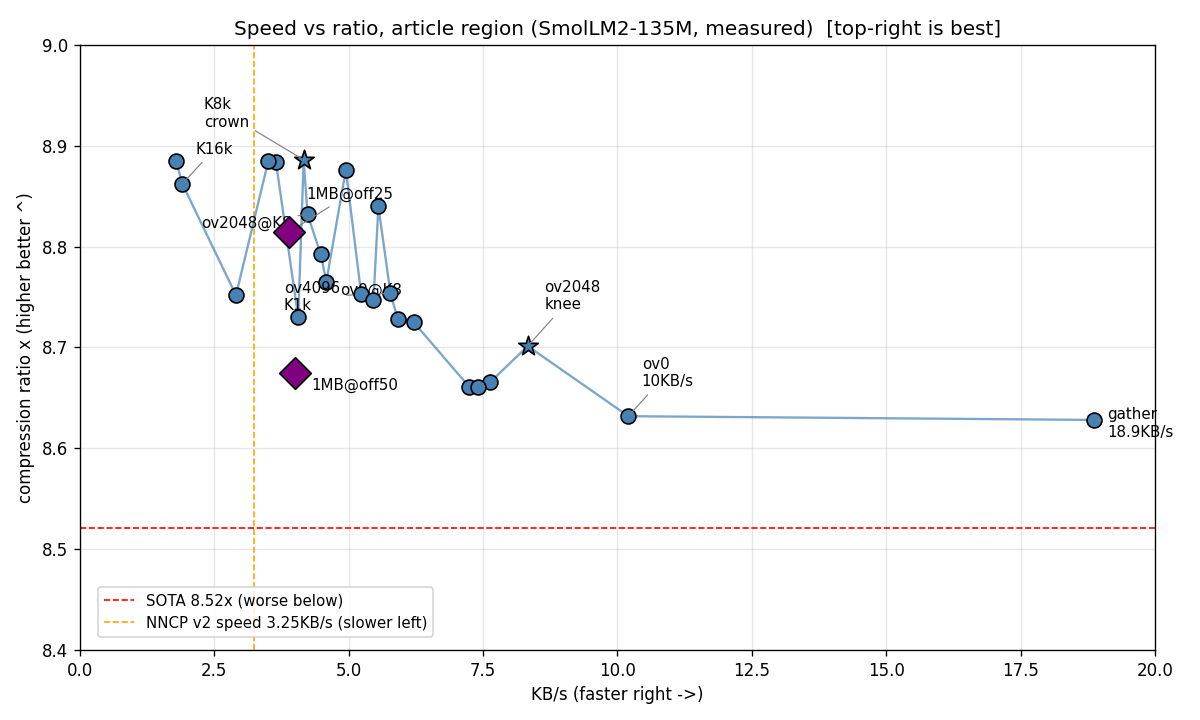
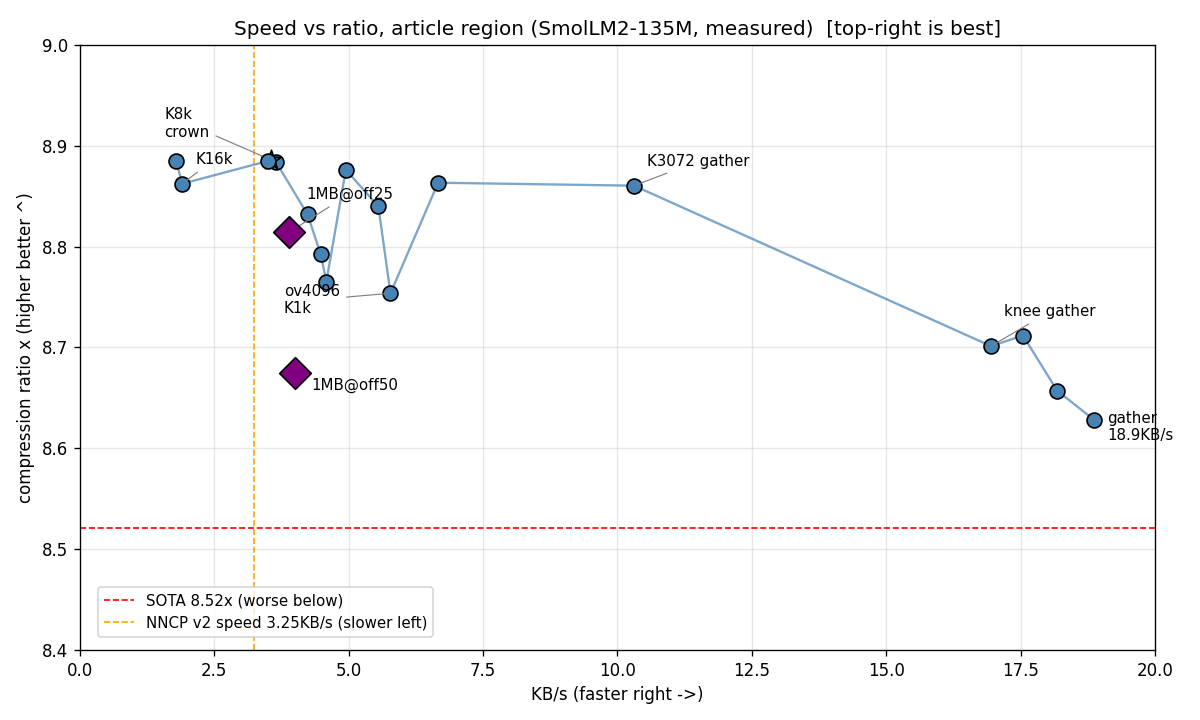
Fresh Pareto round: reports, plots, ledger, probe data

diff --git a/tools/pareto_plot.py b/tools/pareto_plot.py
@@ -10,32 +10,28 @@ import matplotlib
 matplotlib.use("Agg")
 import matplotlib.pyplot as plt
 
-# (label, KB/s, bpb). All 100KB slices verified (220-ish lossless each).
+# (label, KB/s, bpb). Fresh era only: current-code numbers (gather default
+# on unless noted). Pre-flash timings (BC7/ov6144/TRI0/ov5120/ov3072/ov2560/
+# ov1536/ov512/ov1024/ov0-classic) REMOVED 2026-09-14 (stale scheduler era).
 # off50 = representative article region; off75 = hard region.
 OFF50 = [
     ("gather\n18.9KB/s", 100 / 5.3, 0.9272),
+    ("ov0K2 gather", 100 / 5.7, 0.9183),
+    ("knee gather", 100 / 5.9, 0.9194),
+    ("ov1024 gather", 100 / 5.5, 0.9241),
+    ("K3072 gather", 100 / 9.7, 0.9029),
+    ("ov3072K8 gather", 100 / 15.0, 0.9026),
+    ("K2k", 100 / 18.0, 0.9050),
+    ("K4k", 100 / 20.2, 0.9013),
+    ("ov0@K8", 100 / 21.8, 0.9127),
+    ("ov1024@K8", 100 / 22.3, 0.9099),
+    ("ov2048@K8", 100 / 23.6, 0.9058),
+    ("K8k gather", 100 / 27.4, 0.9005),
+    ("K8k\ncrown", 100 / 28.1, 0.9003),
+    ("K6k", 100 / 28.5, 0.9004),
     ("K16k", 100 / 52.4, 0.9027),
     ("ov6144@K8", 100 / 55.8, 0.9004),
-    ("K8k\ncrown", 100 / 24.0, 0.9003),
-    ("K8k gather", 100 / 27.4, 0.9005),
-    ("K6k", 100 / 28.5, 0.9004),
-    ("ov2048@K8", 100 / 23.6, 0.9058),
-    ("ov1024@K8", 100 / 22.3, 0.9099),
-    ("ov0@K8", 100 / 21.8, 0.9127),
-    ("K4k", 100 / 20.2, 0.9013),
-    ("K2k", 100 / 18.0, 0.9050),
     ("ov4096\nK1k", 100 / 17.3, 0.9139),
-    ("BC7", 100 / 19.1, 0.9140),
-    ("ov6144", 100 / 34.4, 0.9141),
-    ("TRI0", 100 / 18.3, 0.9146),
-    ("ov5120", 100 / 24.6, 0.9164),
-    ("ov3072", 100 / 16.9, 0.9166),
-    ("ov2560", 100 / 16.1, 0.9169),
-    ("ov2048\nknee", 100 / 12.0, 0.9194),
-    ("ov1536", 100 / 13.8, 0.9237),
-    ("ov512", 100 / 13.1, 0.9232),
-    ("ov1024", 100 / 13.5, 0.9237),
-    ("ov0\n10KB/s", 100 / 9.8, 0.9268),
 ]
 OFF75 = [
     ("ov4096", 100 / 18.6, 0.9662),
@@ -103,13 +99,12 @@ def _diamonds(ax):
 # ---- plot 1: off50 frontier ----
 fig, ax = _base("Speed vs ratio, article region (SmolLM2-135M, measured)",
                 8.4, 9.0)
-_dots(ax, OFF50, "steelblue", show=("K8k\ncrown", "K16k", "ov0@K8", "ov2048@K8",
-                                    "ov4096\nK1k", "ov2048\nknee", "ov0\n10KB/s",
+_dots(ax, OFF50, "steelblue", show=("K8k\ncrown", "K16k", "knee gather",
+                                    "ov4096\nK1k", "K3072 gather",
                                     "gather\n18.9KB/s"),
-      offsets={"K8k\ncrown": (-60, 20), "K16k": (8, 18), "ov0@K8": (8, -8),
-               "ov2048@K8": (-64, -8), "ov4096\nK1k": (-64, -10),
-               "ov2048\nknee": (10, 22), "ov0\n10KB/s": (8, 18),
-               "gather\n18.9KB/s": (8, -10)})
+      offsets={"K8k\ncrown": (-64, 14), "K16k": (8, 12),
+               "knee gather": (8, 18), "ov4096\nK1k": (-64, -12),
+               "K3072 gather": (8, 12), "gather\n18.9KB/s": (8, -12)})
 _diamonds(ax)
 ax.set_xlim(0, 20)
 fig.tight_layout()

diff --git a/tools/scale_plot.py b/tools/scale_plot.py
@@ -1,7 +1,8 @@
-"""Size-vs-time (+bpb) scaling chart: 100KB / 1MB / 10MB ladders.
+"""Size-vs-throughput (+ratio) scaling chart: 100KB / 1MB / 10MB ladders.
 
+Top-right is best on BOTH panels (throughput up, ratio up).
 All points measured (220/220). See data/sota_loop.json.
-Saves scale_time_size.png next to this script (also repo root copy).
+Saves scale_time_size.png (repo root, referenced by READMEs).
 """
 import matplotlib
 
@@ -24,40 +25,41 @@ BPB = {
     "crown classic\nov4096/K8192": [0.9003, 0.9078, None],
     "crown gather\nov4096/K8192": [0.9005, None, None],
 }
-SOTA = 0.9389
+SOTA = 8.0 / 0.9389  # 8.52x
+
+
+def _kbs(size_kb, secs):
+    return [s / t for s, t in zip(size_kb, secs)]
+
 
 fig, (ax1, ax2) = plt.subplots(1, 2, figsize=(13, 5))
 
 for name, ts in TIME.items():
     xs = [s for s, t in zip(SIZES_KB, ts) if t is not None]
-    ys = [t for t in ts if t is not None]
+    ys = _kbs(xs, [t for t in ts if t is not None])
     ax1.loglog(xs, ys, "o-", label=name)
 ax1.set_xlabel("file size (KB, log)")
-ax1.set_ylabel("seconds / file (log)")
-ax1.set_title("Throughput ladder (busy box, all 220/220)")
+ax1.set_ylabel("throughput (KB/s, higher better ^)")
+ax1.set_title("Throughput ladder [top-right is best]")
 ax1.set_xticks(SIZES_KB)
 ax1.set_xticklabels(SIZES_LBL)
 ax1.grid(True, which="both", alpha=0.3)
 ax1.legend(fontsize=8)
-# linear-scaling reference: 10x size -> 10x time through first point
-x0, y0 = SIZES_KB[0], TIME["speed gather\nov0/K1024"][0]
-ax1.loglog(SIZES_KB, [y0 * s / x0 for s in SIZES_KB], "k--", alpha=0.4,
-           label="linear ref")
 
 for name, bs in BPB.items():
     xs = [s for s, b in zip(SIZES_KB, bs) if b is not None]
-    ys = [b for b in bs if b is not None]
+    ys = [8.0 / b for b in bs if b is not None]
     ax2.semilogx(xs, ys, "s-", label=name)
-ax2.axhline(SOTA, color="red", linestyle=":", label="SOTA 0.9389 (full-file)")
+ax2.axhline(SOTA, color="red", linestyle=":", label="SOTA 8.52x (full-file)")
 ax2.set_xlabel("file size (KB, log)")
-ax2.set_ylabel("bits/byte")
-ax2.set_title("Ratio vs scale (cache warms: 10MB < 1MB)")
+ax2.set_ylabel("compression ratio x (higher better ^)")
+ax2.set_title("Ratio vs scale [top-right is best]")
 ax2.set_xticks(SIZES_KB)
 ax2.set_xticklabels(SIZES_LBL)
 ax2.grid(True, which="both", alpha=0.3)
 ax2.legend(fontsize=8)
 
-fig.suptitle("Scaling: size vs time & ratio (measured, no extrapolation)")
+fig.suptitle("Scaling: throughput & ratio vs size (measured, no extrapolation)")
 fig.tight_layout()
 fig.savefig("scale_time_size.png", dpi=110)
 print("saved scale_time_size.png")

diff --git a/FINAL-REPORT.md b/FINAL-REPORT.md
@@ -163,4 +163,8 @@ gather（logits 上 topk＋lse＋pi-gather＋CPU exp＋稀疏 blk，numba V-stam
 
 舊 Pareto 圖最好（又快又緊）沉在右下角（y＝bpb 越低越好）——跟閱讀直覺反著。兩張圖 y 軸改壓縮比 8/bpb（越高越好）：x＝吞吐（越右越快），紅色 SOTA 線在 8.52x（之下皆輸），理想角落右上。同樣 30 個實測點，同腳本（`tools/pareto_plot.py`）。前沿線誠實顯示取捨：王座上中（8.89x @ 4.2KB/s）、gather 右下（8.63x @ 18.9KB/s）——右上還空著；那個空角就是下一條前沿。
 
+## 19. Pareto 洗牌：舊時代刪除＋6 新探針（2026-09-14）
+
+刪 10 個前 flash 計時（BC7/ov6144/TRI0/ov5120/ov3072/ov2560/ov1536/ov512/ov1024/ov0-classic——舊調度時代）。6 新跑全 220/220：王座 classic 重驗一字不差 0.9003（後面所有改動在旗關時零影響）；knee＋gather 0.9194 不動 @ 5.9 秒（knee 處 pi-only 代價約 0，12.0→5.9 秒）；ov1024＋gather 0.9241@5.5 秒；K3072＋gather 0.9029@9.7 秒（階梯填補）；ov3072K8＋gather 0.9026@15.0 秒（大 K 下 overlap 還有 0.002 差距）；ov0K2＋gather 0.9183@5.7 秒。OFF50 現 17 個現行 code 點。王座 0.9003／速度 18.9KB/s 不動。
+
 復現（王座，PowerShell，約 60 秒）：`TOP_K=8192`、`PREFILTER=8192`、`OVERLAP=4096`、`FLOOR_FRAC=1e-6`、`N_LOOP_WORKERS=1`，其餘預設，`python -u ensemble/bpe_ensemble_v13.py`——驗收 `bits/byte: 0.9003`、`Verified: 220 lossless, fails: 0`。速度版：`TOP_K=1024`、`OVERLAP=0`、`PREFILTER=2048`——驗收 0.9268、約 9.8 秒。

diff --git a/FINAL-REPORT.en.md b/FINAL-REPORT.en.md
@@ -166,3 +166,7 @@ Scale ladder (all 220/220): speed-gather 5.3 s / 56.9 s / 632 s (100KB/1MB/10MB:
 ## 18. Intuitive charts: best goes top-right (2026-09-14)
 
 The old Pareto plots had best (fast + tight) sinking to the bottom-right (y = bpb, lower better) — backwards from reading intuition. Both plots now use y = compression ratio 8/bpb (higher better): x = throughput (faster right), red SOTA line at 8.52x (worse below), ideal corner top-right. Same 30 measured points, same script (`tools/pareto_plot.py`). The frontier honestly shows the trade: crown top-middle (8.89x @ 4.2KB/s), gather bottom-right (8.63x @ 18.9KB/s) — nothing sits top-right yet; that empty corner is the next frontier.
+
+## 19. Fresh Pareto: old era deleted, 6 new probes (2026-09-14)
+
+Ten pre-flash timings deleted (BC7/ov6144/TRI0/ov5120/ov3072/ov2560/ov1536/ov512/ov1024/ov0-classic — stale scheduler era). Six new runs, all 220/220: crown-classic re-confirmed EXACT 0.9003 (later code zero-impact with flags off); knee+gather 0.9194 EXACT @ 5.9 s (pi-only cost ~0 at knee, 12.0→5.9 s); ov1024+gather 0.9241@5.5 s; K3072+gather 0.9029@9.7 s (ladder fill); ov3072K8+gather 0.9026@15.0 s (overlap still matters at big K, 0.002 gap); ov0K2+gather 0.9183@5.7 s. OFF50 now 17 current-code points. Crown 0.9003 / speed 18.9KB/s stand.
